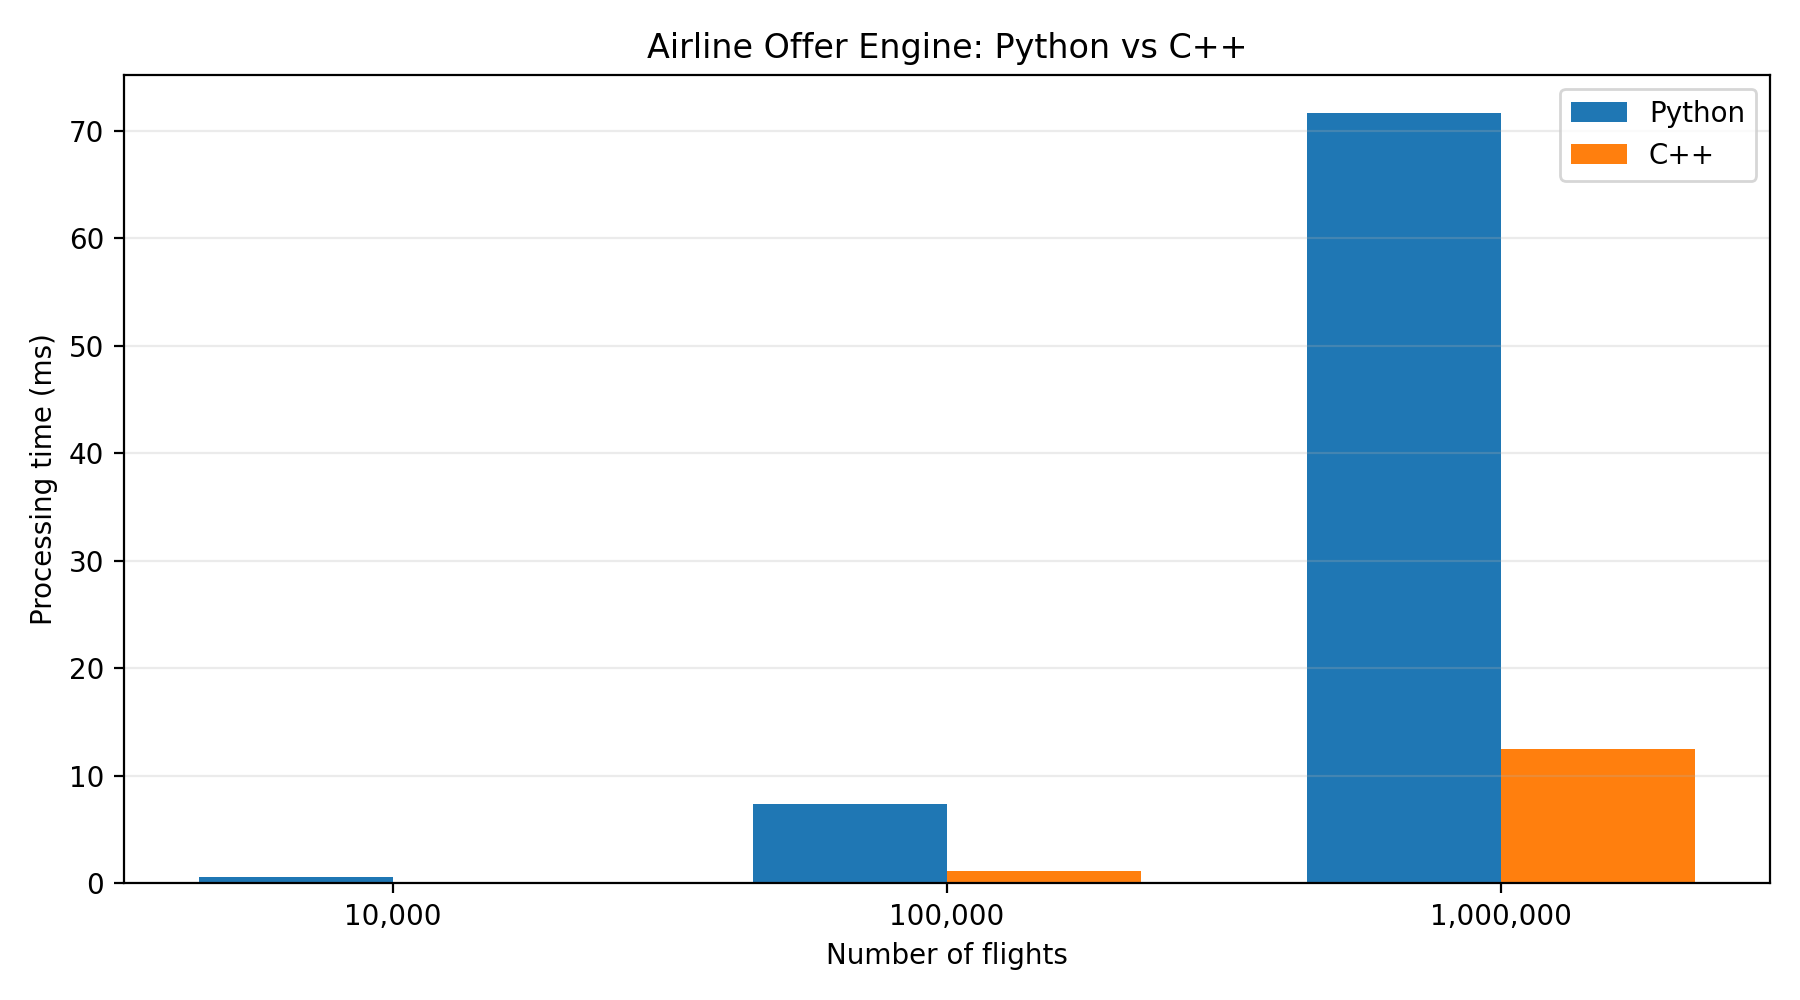
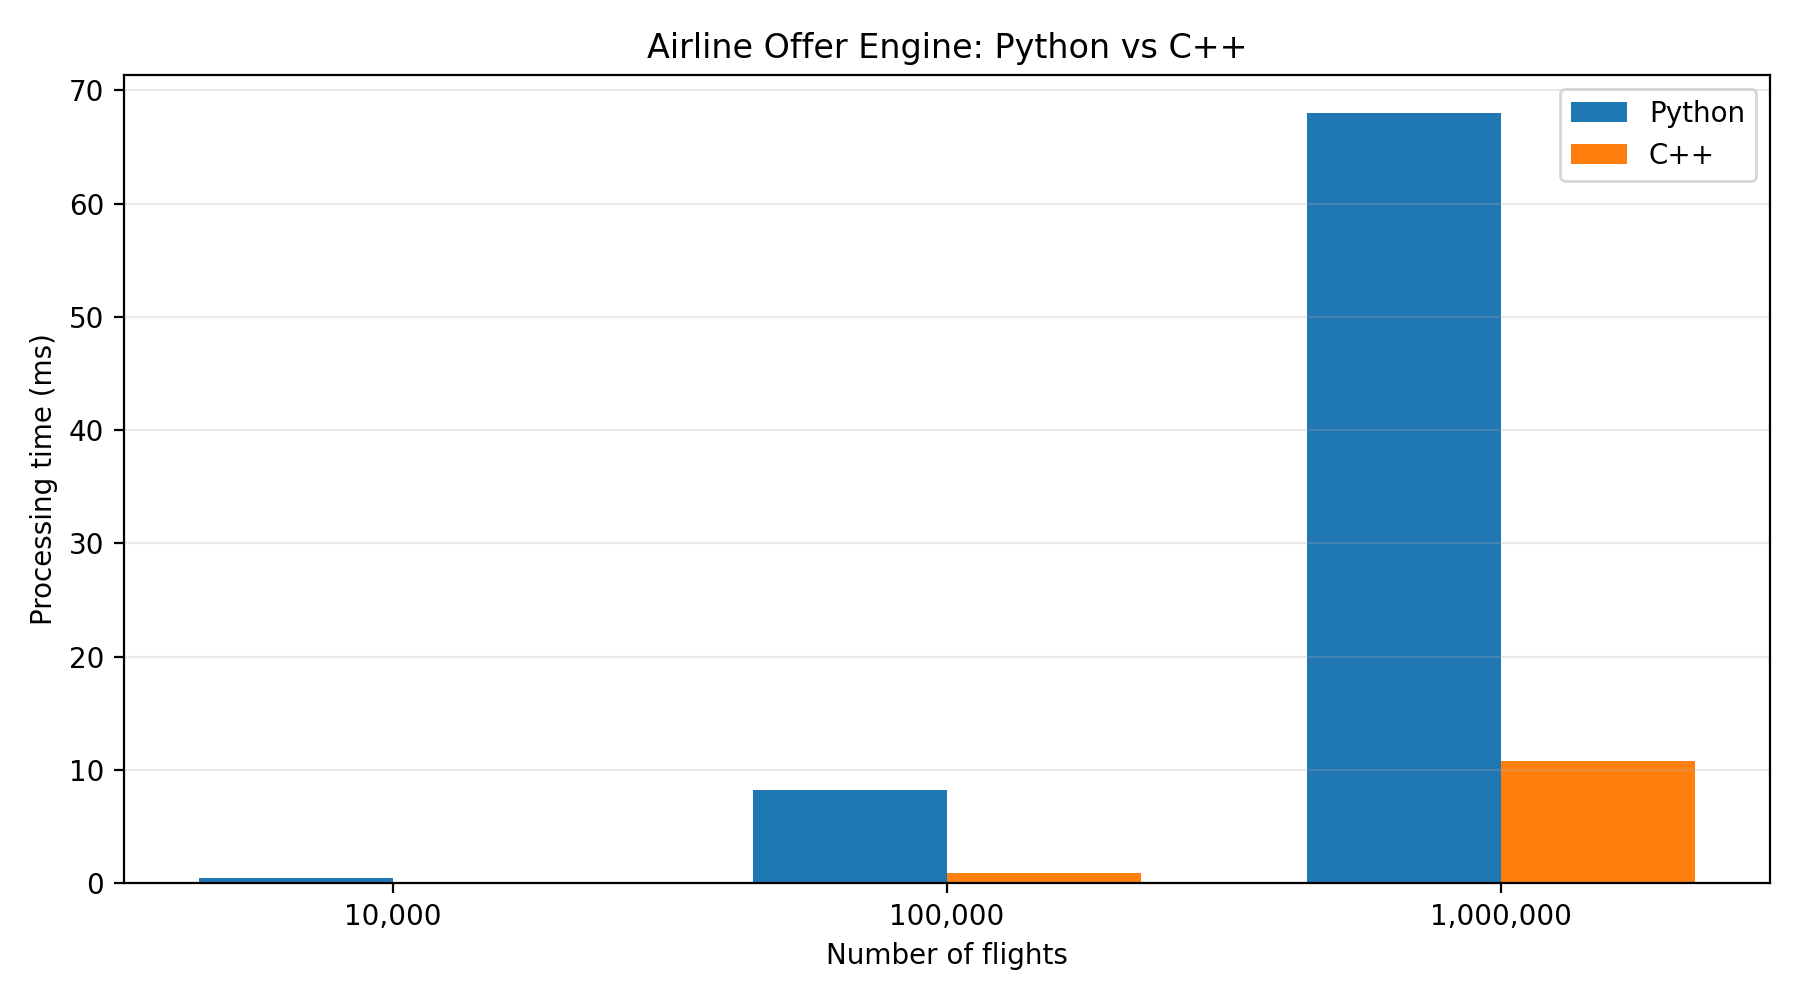
Add CMake build system and update benchmark results

diff --git a/python/run_benchmarks.py b/python/run_benchmarks.py
@@ -8,7 +8,7 @@ from pathlib import Path
 # Project configuration
 PROJECT_ROOT = Path(__file__).resolve().parent.parent
 PYTHON_DIR = PROJECT_ROOT / "python"
-CPP_EXECUTABLE = PROJECT_ROOT / "benchmark-cpp.exe"
+CPP_EXECUTABLE = PROJECT_ROOT / "build" / "Release" / "benchmark-cpp.exe"
 
 DATASET_SIZES = [10000, 100000, 1000000]
 SESSIONS = 5

diff --git a/README.md b/README.md
@@ -28,6 +28,7 @@ The project emphasizes reproducibility, consistent business logic, automated cor
 | Data format | CSV |
 | Data generation | Python |
 | Benchmark automation | Python |
+| Build system | CMake |
 | Result validation | CSV comparison and SHA-256 |
 | Data visualization | Matplotlib |
 | Development environment | Visual Studio Code / Windows |
@@ -204,13 +205,32 @@ The example above corresponds to the one-million-flight dataset.
 
 The commands below assume **Windows PowerShell** and the Microsoft Visual C++ compiler.
 
-### 1. Compile the C++ Benchmark
 
-Open a terminal with the MSVC build environment configured and run:
+### 1. Build the C++ Project with CMake
+
+The project uses CMake to configure and build the C++17 executables.
+
+On Windows, with Visual Studio 2022 installed:
 
 ```powershell
-cl /EHsc /std:c++17 /W4 /O2 .\cpp\benchmark.cpp /Fe:benchmark-cpp.exe
+cmake -S . -B build -G "Visual Studio 17 2022" -A x64
 ```
+
+Compile the Release configuration:
+
+```powershell
+cmake --build build --config Release
+```
+
+This generates two executables:
+
+- `build/Release/airline-engine.exe`
+- `build/Release/benchmark-cpp.exe`
+
+The benchmark automation uses the Release executable.
+
+Run all commands from the project root directory.
+
 
 ### 2. Install the Visualization Dependency
 
